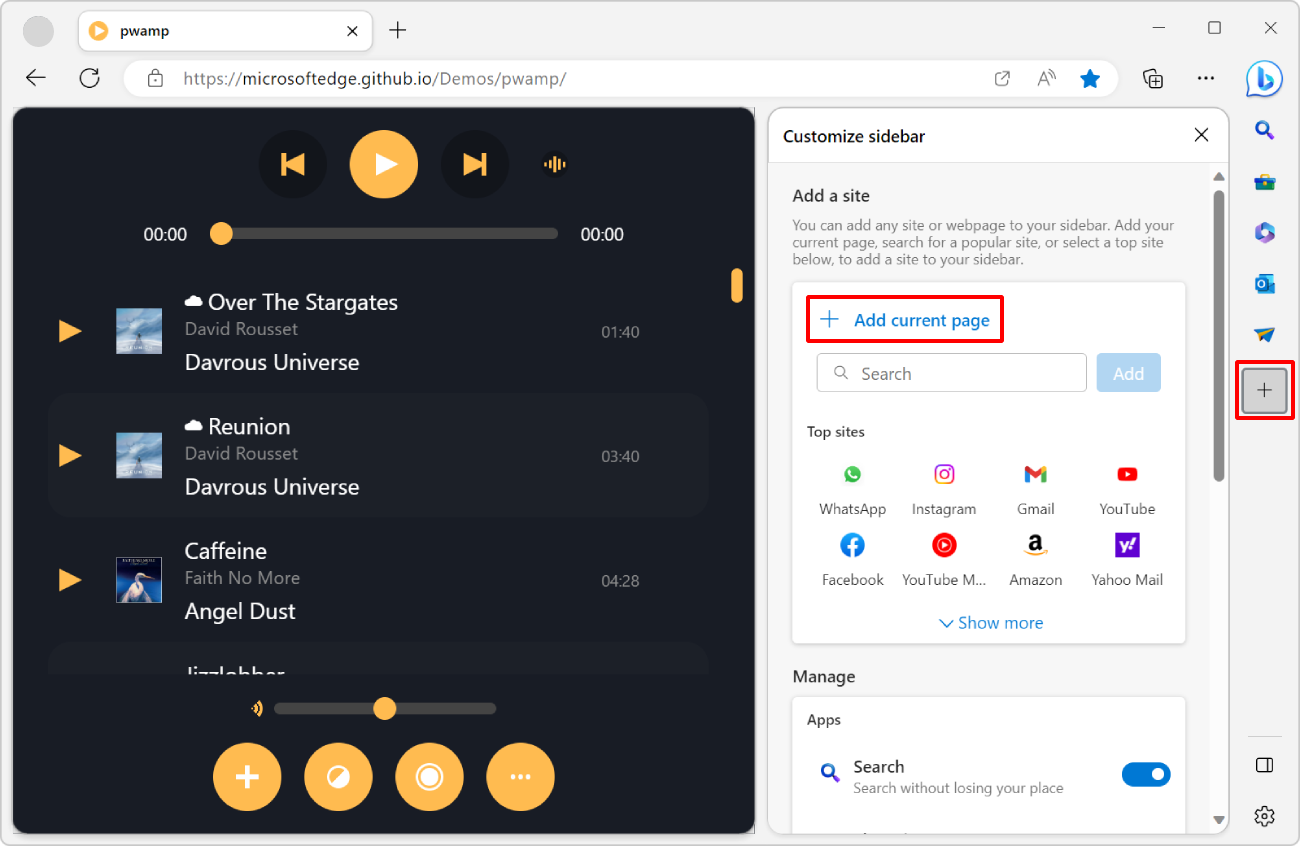
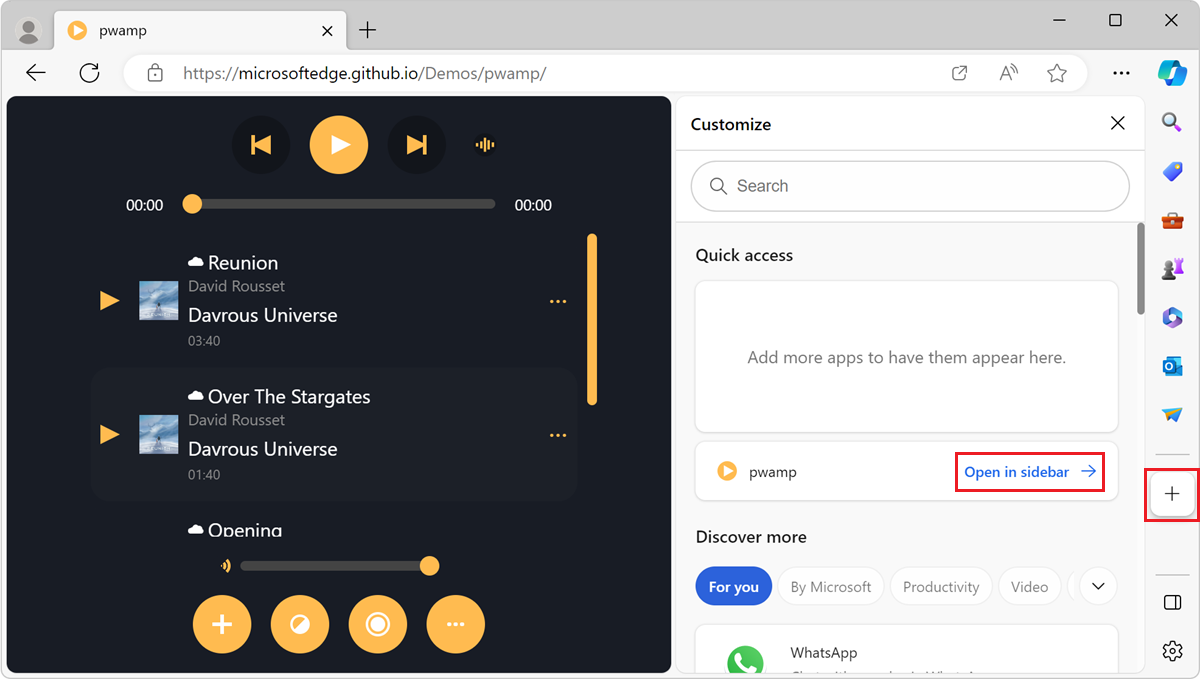
Started updating the sidebar PWA API docs with new screenshots

diff --git a/microsoft-edge/progressive-web-apps-chromium/how-to/sidebar.md b/microsoft-edge/progressive-web-apps-chromium/how-to/sidebar.md
@@ -6,7 +6,7 @@ ms.author: msedgedevrel
 ms.topic: conceptual
 ms.service: microsoft-edge
 ms.subservice: pwa
-ms.date: 04/27/2023
+ms.date: 02/07/2024
 ---
 # Build PWAs for the sidebar in Microsoft Edge
 
@@ -210,7 +210,7 @@ PWAmp is a music player PWA demo application that can be pinned to the sidebar i
 
 1. Go to [PWAmp](https://microsoftedge.github.io/Demos/pwamp/).
 
-1. In the sidebar, click **Customize sidebar**, and then click **Add current page**:
+1. In the sidebar, click **Customize**, and then click **Open in sidebar**:
 
     ![The "Customize sidebar" panel, with the "Add current page" button](./sidebar-images/add-pwamp-to-sidebar.png)
 
